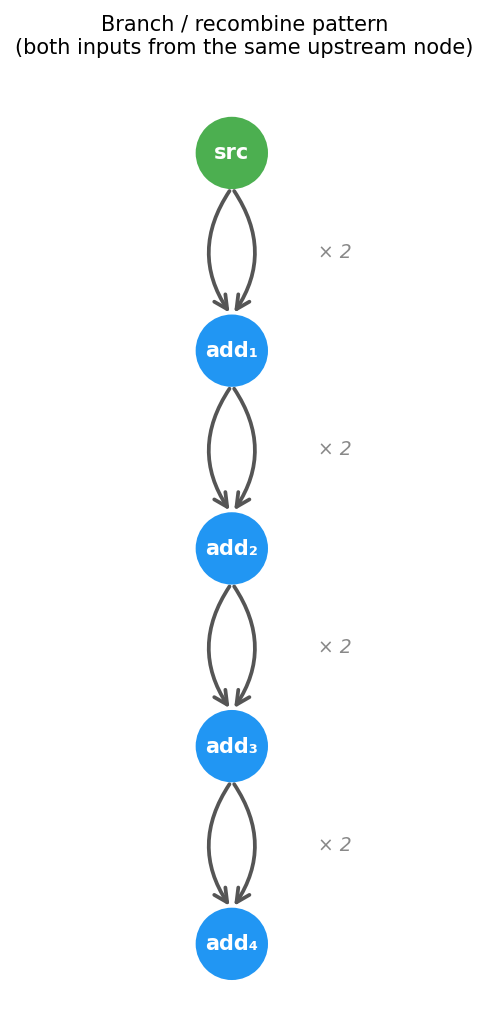
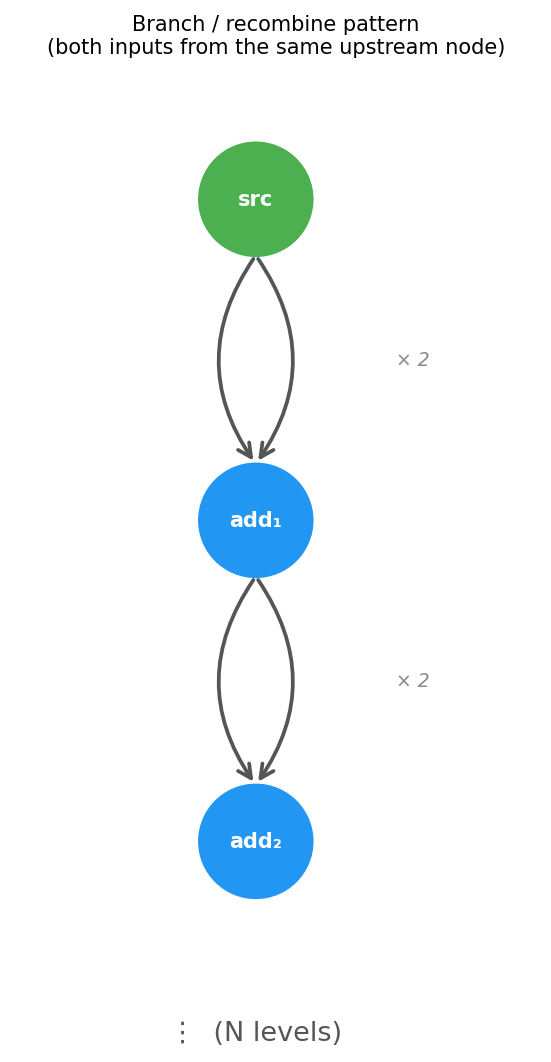
Simplify diagram to depth 2 with repeats indicator

diff --git a/wingfoil/benches/bfs_vs_dfs/diagram.py b/wingfoil/benches/bfs_vs_dfs/diagram.py
@@ -2,7 +2,7 @@ import matplotlib
 matplotlib.use('Agg')
 import matplotlib.pyplot as plt
 
-DEPTH = 4
+DEPTH = 2
 NODE_R = 0.28
 SPACING = 1.6
 
@@ -50,6 +50,11 @@ ax.set_aspect('equal')
 ax.axis('off')
 ax.set_title('Branch / recombine pattern\n(both inputs from the same upstream node)',
              fontsize=10, pad=12)
+
+# "repeats" ellipsis below last node
+last_x, last_y = positions[-1]
+ax.text(last_x, last_y - SPACING * 0.6, '⋮  (N levels)', ha='center',
+        va='center', fontsize=13, color='#555')
 
 fig.tight_layout()
 fig.savefig('diagram.png', dpi=150, bbox_inches='tight')
